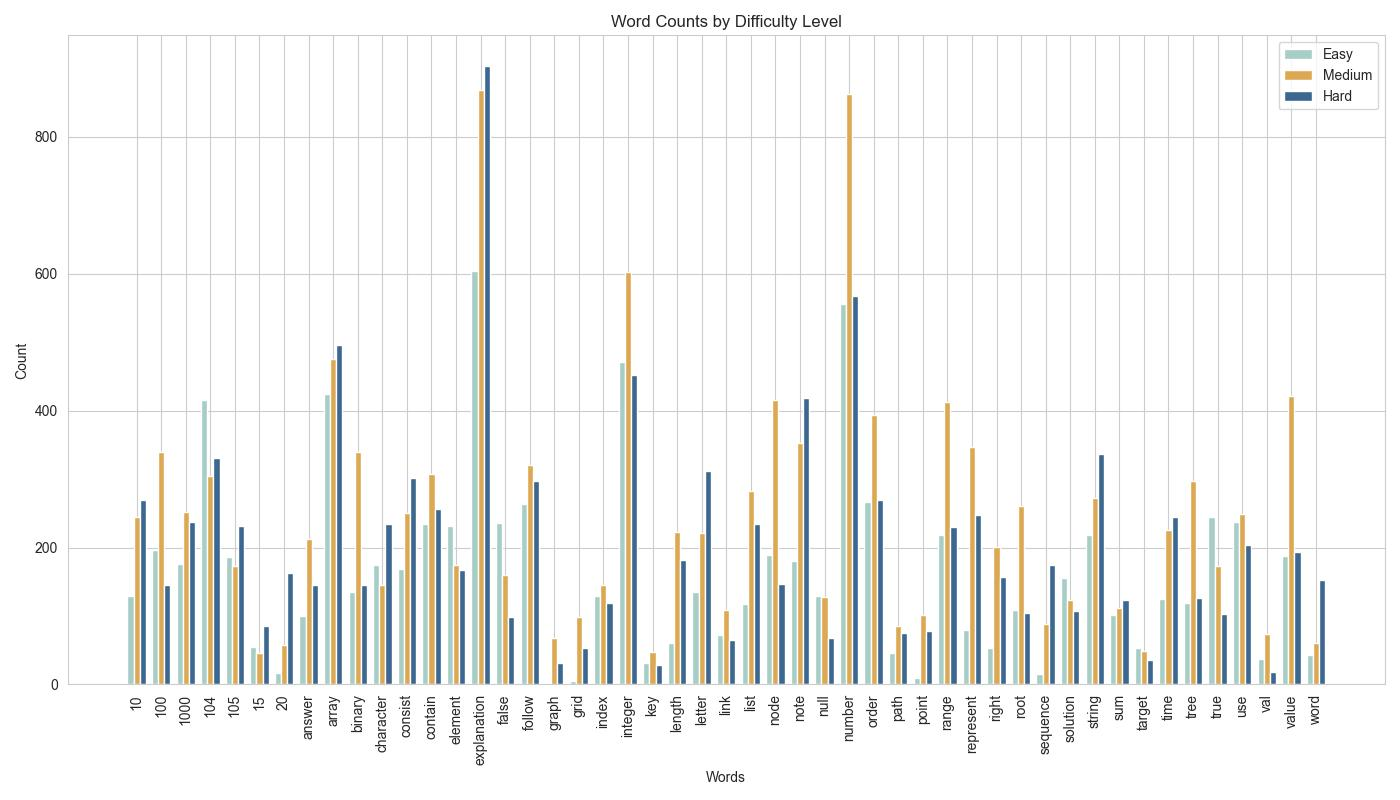
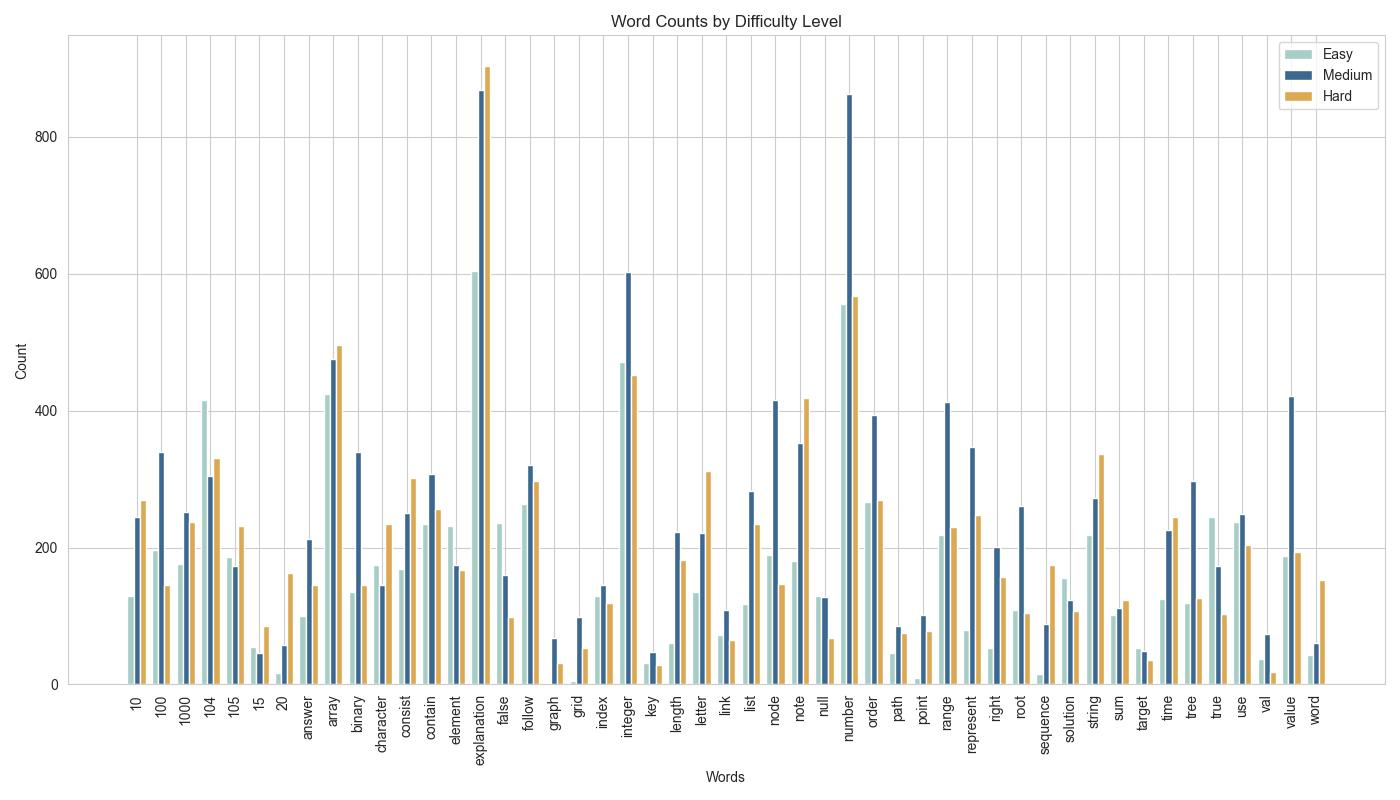
fixed one graph

Changed region(s): [[0.0921, 0.0938, 0.9521, 0.875], [0.9214, 0.0625, 0.9521, 0.125]]

diff --git a/visualization.py b/visualization.py
@@ -485,8 +485,8 @@ plt.figure(figsize=(14, 8))  # Increase figure size for better spacing
 bar_width = 0.25  # Set the bar width smaller to avoid overlap
 
 plt.bar(x - bar_width, easy_counts, bar_width, label="Easy", color='#A6CDC6')
-plt.bar(x, medium_counts, bar_width, label="Medium", color='#DDA853')
-plt.bar(x + bar_width, hard_counts, bar_width, label="Hard", color='#3B6790')
+plt.bar(x, medium_counts, bar_width, label="Medium", color='#3B6790')
+plt.bar(x + bar_width, hard_counts, bar_width, label="Hard", color='#DDA853')
 
 plt.xlabel("Words")
 plt.ylabel("Count")
